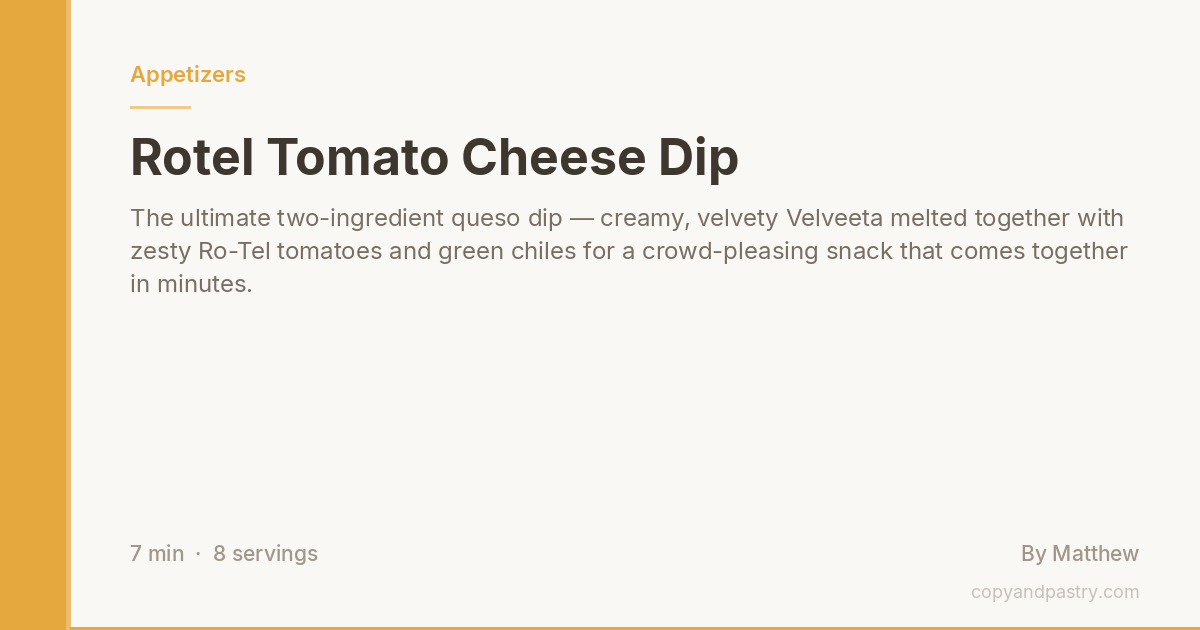
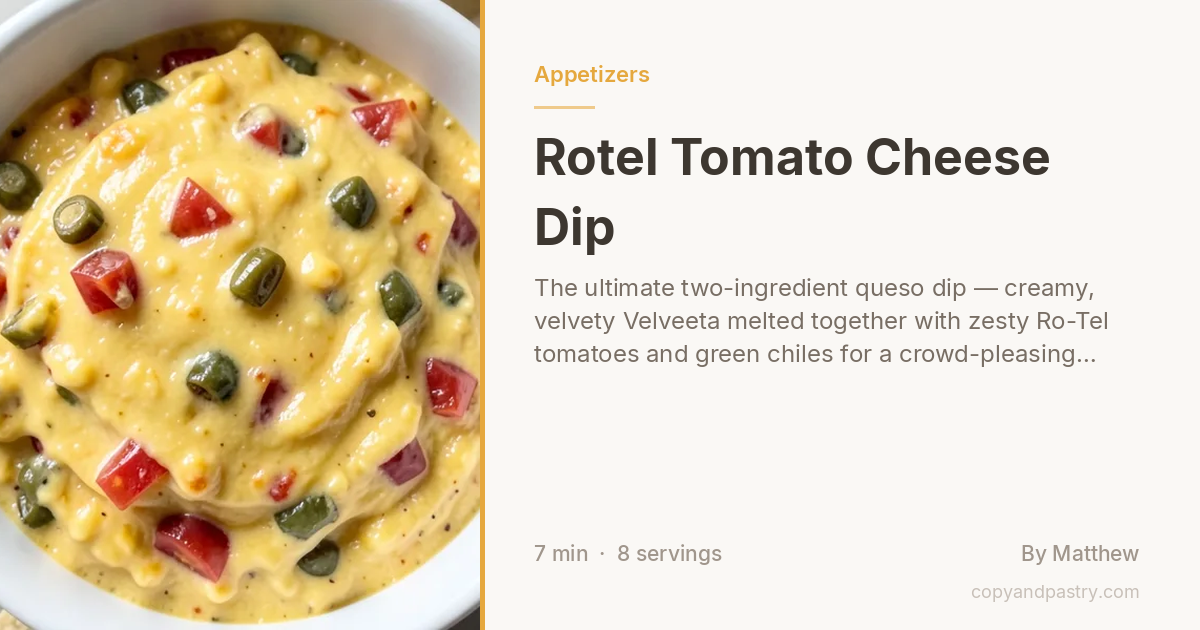
Update generated files [skip ci]

diff --git a/index.html b/index.html
@@ -37,6 +37,7 @@
         <div class="category-section">
             <p class="section-label">🕐 Recently Added</p>
             <a href="appetizers/rotel-tomato-cheese-dip" class="recipe-card">
+                <img class="recipe-card-photo" src="assets/photos/rotel-tomato-cheese-dip/photo.webp" alt="" loading="lazy">
                 <div class="recipe-card-content">
                     <div class="recipe-card-title">Rotel Tomato Cheese Dip</div>
                     <div class="recipe-card-desc">The ultimate two-ingredient queso dip — creamy, velvety Velveeta melted together with zesty Ro-Tel tomatoes and green chiles for a crowd-pleasing snack that comes together in minutes.</div>
@@ -111,6 +112,7 @@
                         <span class="recipe-card-chevron">›</span>
                     </a>
                     <a href="appetizers/rotel-tomato-cheese-dip" class="recipe-card">
+                        <img class="recipe-card-photo" src="assets/photos/rotel-tomato-cheese-dip/photo.webp" alt="" loading="lazy">
                         <div class="recipe-card-content">
                             <div class="recipe-card-title">Rotel Tomato Cheese Dip</div>
                             <div class="recipe-card-desc">The ultimate two-ingredient queso dip — creamy, velvety Velveeta melted together with zesty Ro-Tel tomatoes and green chiles for a crowd-pleasing snack that comes together in minutes.</div>
